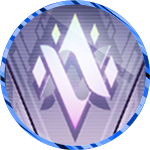
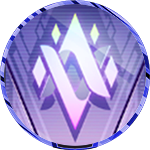
다이아 랭크 아이콘 변경, 트위터 링크 추가, 메인페이지 수정

diff --git a/src/pages/NewMain.js b/src/pages/NewMain.js
@@ -2,6 +2,7 @@ import React, { Component } from 'react';
 import { injectIntl  } from 'react-intl';
 import logo from 'img/main_logo.svg';
 import { Footer, Langauge  } from 'components/banner';
+import { Link } from 'react-router-dom';
 
 class Main extends Component {
     render() {
@@ -21,28 +22,33 @@ class Main extends Component {
                             <Langauge />
                         </div>
                         <div className="mainpage_buttons">
-                            <button className="mainpage_button">
-                                랭크
-                            </button>
-                            <button className="mainpage_button">
-                                루트
-                            </button>
-                            <button className="mainpage_button">
-                                캐릭터 / 티어
-                            </button>
+                            <Link to={'/Rank'}>
+                                <button className="mainpage_button">
+                                    {intl.formatMessage({id: '랭크'})}
+                                </button>
+                            </Link>
+                            <Link to={'/Route'}>
+                                <button className="mainpage_button">
+                                 {intl.formatMessage({id: 'main.banner.menu.route'})}
+                                </button>
+                            </Link>
+                            <Link to={'/Tier'}>
+                                <button className="mainpage_button">
+                                    {intl.formatMessage({id: '캐릭터/티어'})}
+                                </button>
+                            </Link>
                         </div>
                     </div>
                 </div>
                 <div className="mainpage_search">
                     <div className="mainpage_search_select">
-                        <img className="mainpage_search_selectimg" src="img/jackie.png" />
                         <button className="mainpage_search_selectCircle"></button>
                     </div>
                     <input className="mainpage_search_box" onChange={this.searchHandler} placeholder={intl.formatMessage({id:'main.left.characters.placeholder'})} /> 
                 </div>
-                <div className="mainpage_ad">
+                {/*<div className="mainpage_ad">
                     d
-                </div>
+                </div>*/}
                 <Footer />
             </div>
         );

diff --git a/src/index.css b/src/index.css
@@ -106,8 +106,8 @@ button:hover{
     font-size: 13pt;
     font-weight: bold;
     float: right;
-    margin-top: 10px;
-    margin-right: 5px;
+    margin-top: 15px;
+    margin-right: 10px;
 }
 .footer_span{
     float: left;
@@ -156,13 +156,13 @@ button:hover{
 .medal_span_tooltip{
     visibility: hidden;
     width: 200px;
-    background-color:#262335;
+    background-color:#37334d;
     position: absolute;
     z-index: 1;
     font-size: 10pt;
     white-space: pre-line;
     word-break: keep-all;
-    border-radius: 3px;
+    border-radius: 25px;
     color:white;
     font-weight: 300;
     padding: 5px;
@@ -393,9 +393,10 @@ button:hover{
 }
 .mainpage_buttons :hover{
     border-bottom: 1px solid rgb(244,216,35);
-    padding-bottom: 12px;
 }
 .mainpage_button{
+    display: inline-block;
+    height: 38px;
     margin-left: 20px;
     margin-right: 10px;
     text-align: center;
@@ -405,6 +406,8 @@ button:hover{
     font-size: 13pt;
     font-weight: 600;
     float: right;
+    border-bottom: 1px solid #241b2f;
+    padding-bottom: 15px;
 }
 .mainpage_search{
     width: 600px;
@@ -412,7 +415,7 @@ button:hover{
     background-color: #262335;
     border-radius: 50px;
     margin: auto;
-    margin-bottom: 50px;
+    margin-bottom: 450px;
     border-bottom: 1px solid #241b2f;
     position: relative;
 }
@@ -442,6 +445,7 @@ button:hover{
     font-size: 16pt;
     margin-left: 80px;
     margin-top: 13px;
+    color: rgb(209, 209, 209) ;
 }
 .mainpage_ad{
     width: 970px;
@@ -961,7 +965,7 @@ button:hover{
     color: rgb(209, 209, 209);    
 }
 .S_search3{
-    background-color: rgb(38, 35, 53);
+    background-color: rgb(240, 240, 240) ;
     position: absolute;
     margin-top: 77px;
     margin-left: 852px;
@@ -974,21 +978,25 @@ button:hover{
     z-index: 1;
     max-height: 260px;
     overflow: scroll;
+    color: #171520;    
 }
 .S_search4{
     width: 300px;
     height: 45px;
-    background-color: rgb(38, 35, 53);
+    background-color: rgb(240, 240, 240) ;
     margin-top: 2px;
-    border-bottom: 1px solid #3b4147;
+    color:#171520;    
+}
+.S_search3 :hover{
+    background-color: rgb(212, 212, 212);
 }
 .searchimg{
     height: 40px;
-    border-radius: 100%;
+    margin-top: 2px;
+    border-radius: 10%;
     margin-left: 30px;
     margin-right: 20px;
     float: left;
-    border: 1px solid #3b4147;
 }
 .searchfont{
     display: inline-block;

diff --git a/src/components/banner/Footer.js b/src/components/banner/Footer.js
@@ -13,7 +13,8 @@ class Footer extends Component {
                 <div  className="footer_span">
                     <span>{intl.formatMessage({id:'footer'})}</span>
                 </div>
-                <a className="footer_button" href="mailto:service@bsgg.kr">Contact</a>
+                    <a className="footer_button" href="mailto:service@bsgg.kr">Contact</a>
+                    <a className="footer_button" href="https://twitter.com/BsggKr">Twitter</a>
             </div>
         );
     };
